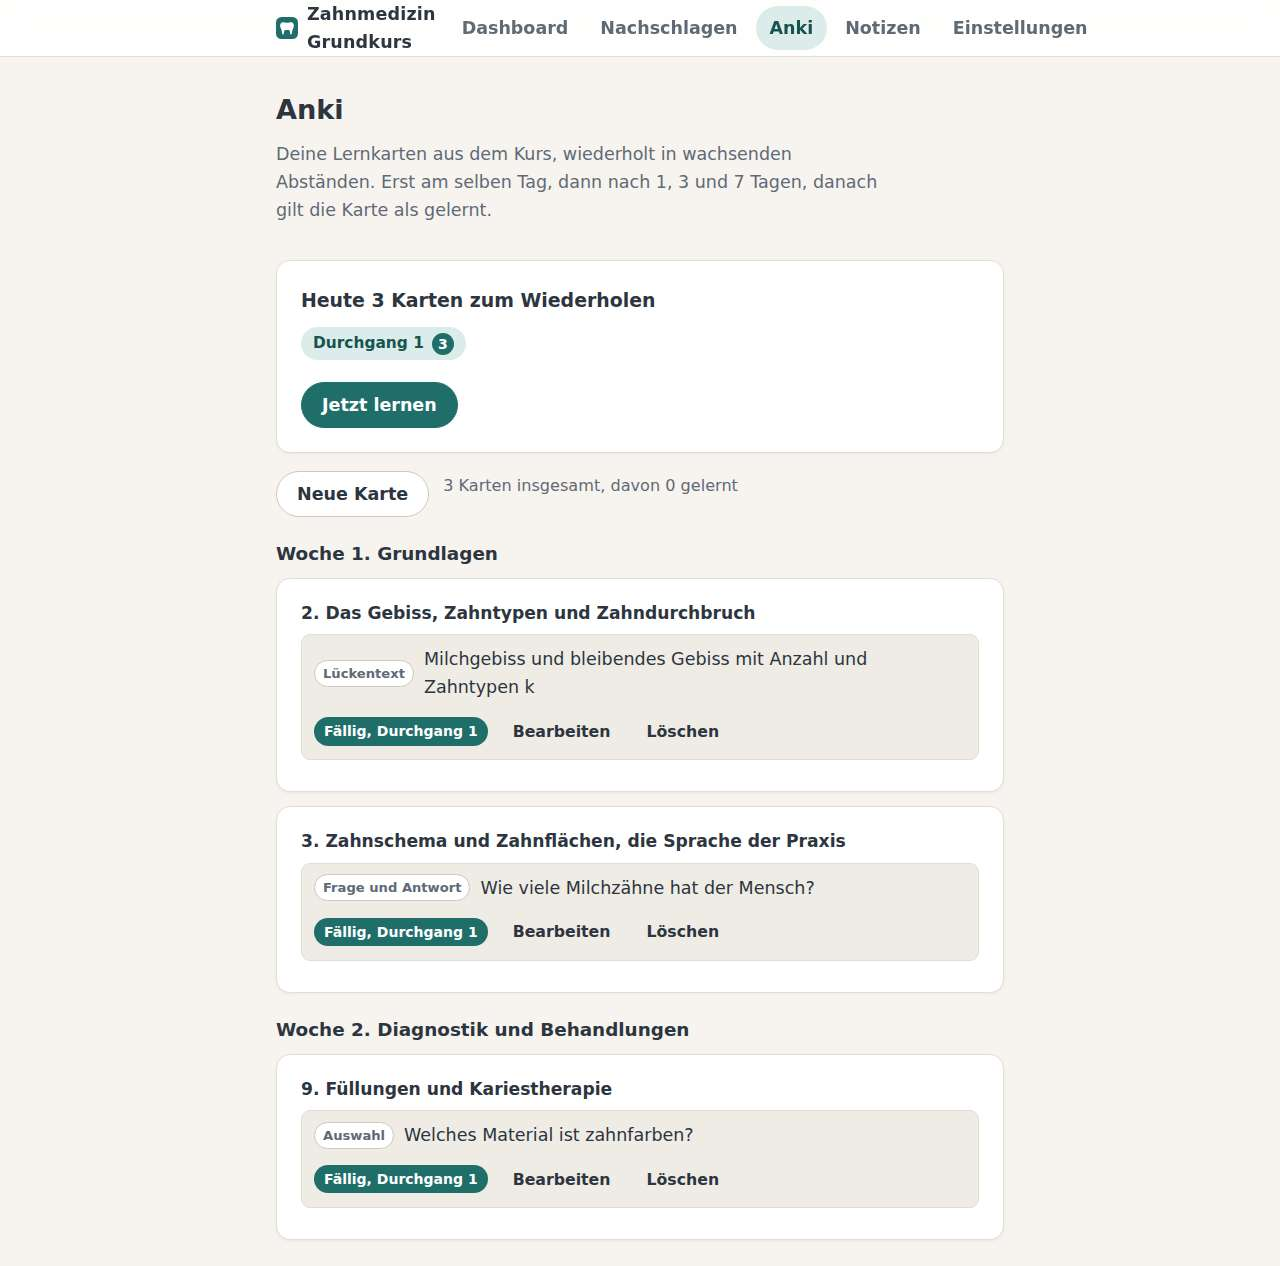
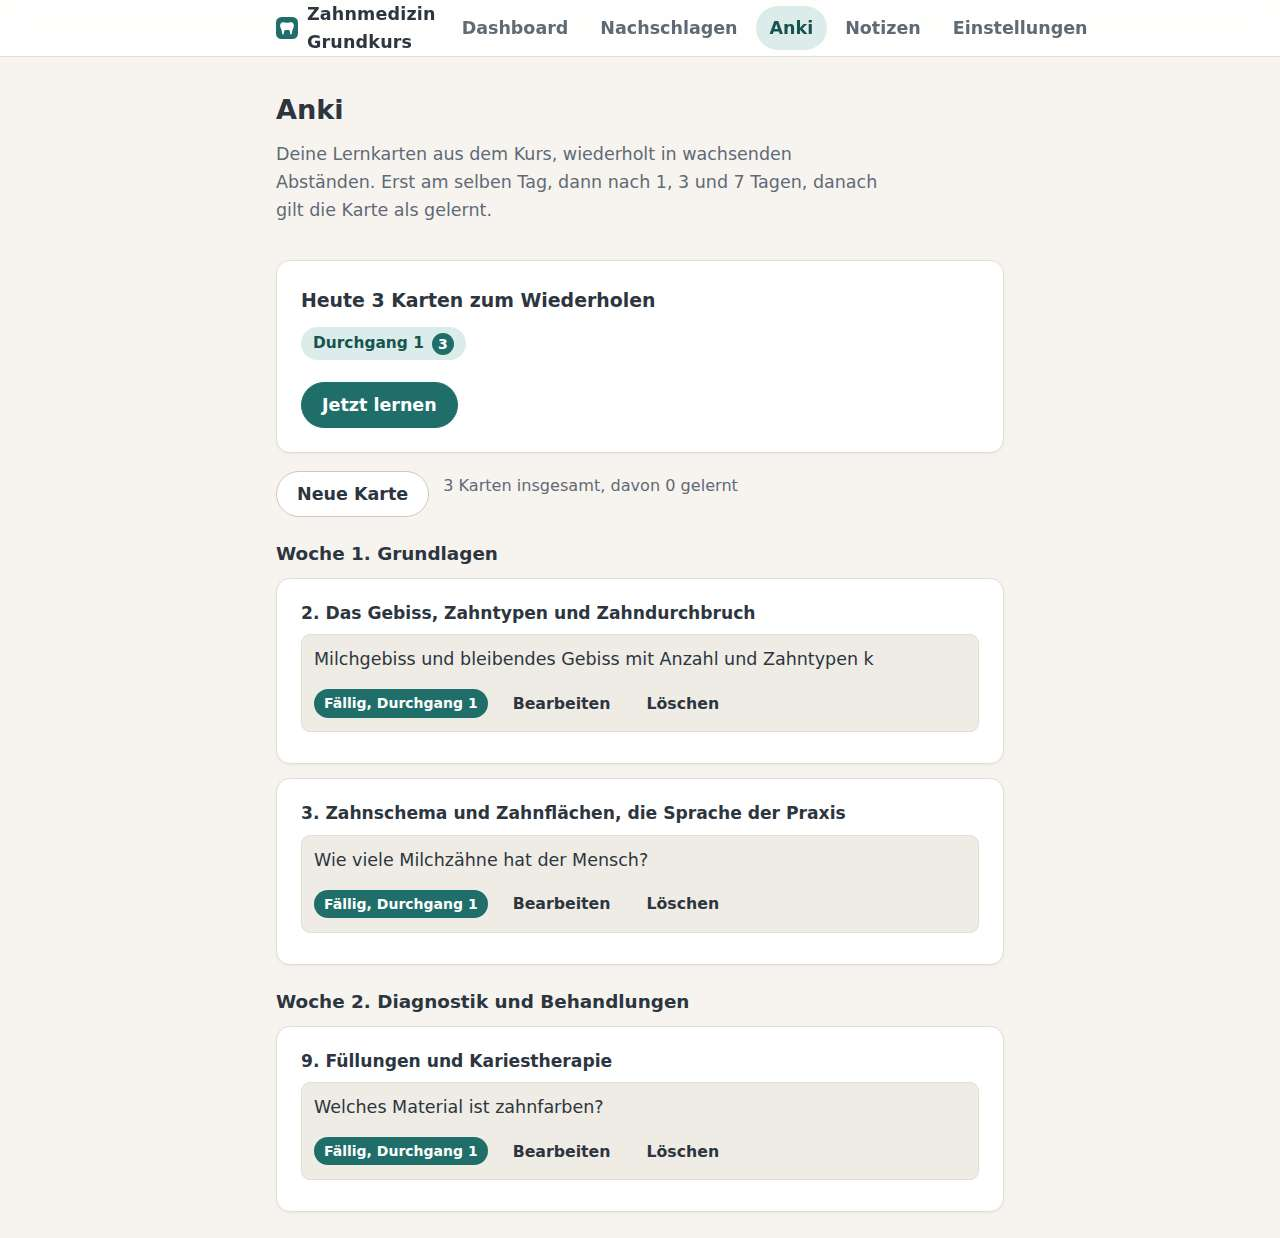
Anki list drops the kind chip, the question takes the row
The card rows on the Anki page no longer show the kind label, the
question text gets the whole line and may run to 140 characters
before it is shortened.

Claude-Session: https://claude.ai/code/session_017QQYA8W3regmf6QmCDd9Fy

diff --git a/src/anki/cards.ts b/src/anki/cards.ts
@@ -215,11 +215,7 @@ export function cardTitle(card: AnkiCard): string {
   const content = card.content;
   const text =
     content.kind === 'qa' ? content.question : content.kind === 'choice' ? content.question : content.text;
-  return text.length > 90 ? `${text.slice(0, 87)}…` : text;
-}
-
-export function cardKindLabel(kind: CardContent['kind']): string {
-  return kind === 'qa' ? 'Frage und Antwort' : kind === 'choice' ? 'Auswahl' : 'Lückentext';
+  return text.length > 140 ? `${text.slice(0, 137)}…` : text;
 }
 
 /**

diff --git a/src/pages/AnkiPage.tsx b/src/pages/AnkiPage.tsx
@@ -6,7 +6,6 @@
 
 import { useEffect, useState } from 'react';
 import {
-  cardKindLabel,
   cardTitle,
   dueByReview,
   dueCards,
@@ -47,7 +46,6 @@ function CardRow({ card, today, onEdit, onDelete }: {
   return (
     <li className={styles.cardRow}>
       <div className={styles.cardRowMain}>
-        <span className={styles.kindChip}>{cardKindLabel(card.content.kind)}</span>
         <span className={styles.cardText}>{cardTitle(card)}</span>
       </div>
       <div className={styles.cardRowSide}>

diff --git a/src/pages/AnkiPage.module.css b/src/pages/AnkiPage.module.css
@@ -112,18 +112,6 @@
   min-width: 0;
 }
 
-.kindChip {
-  flex: 0 0 auto;
-  font-size: 0.75rem;
-  font-weight: 650;
-  padding: 2px 8px;
-  border-radius: 999px;
-  background: var(--surface);
-  border: 1px solid var(--border-strong);
-  color: var(--text-soft);
-  white-space: nowrap;
-}
-
 .cardText {
   overflow-wrap: anywhere;
 }
